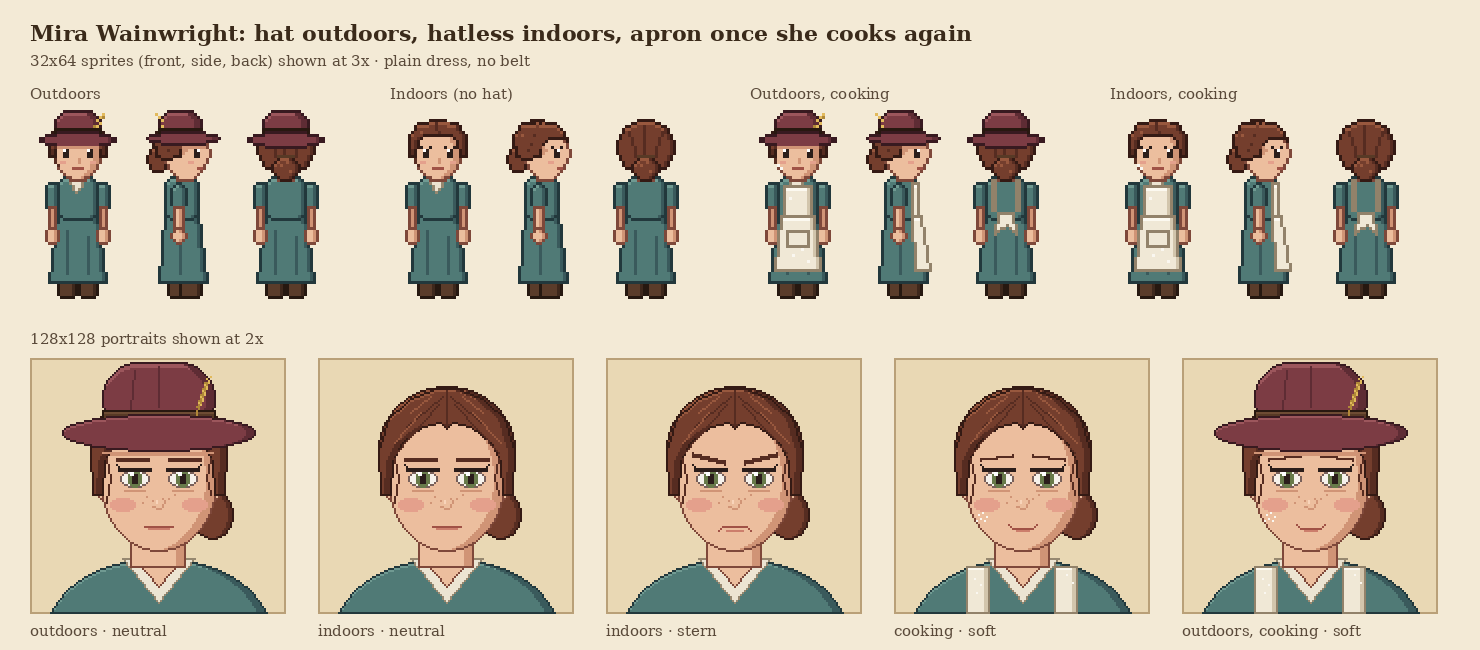
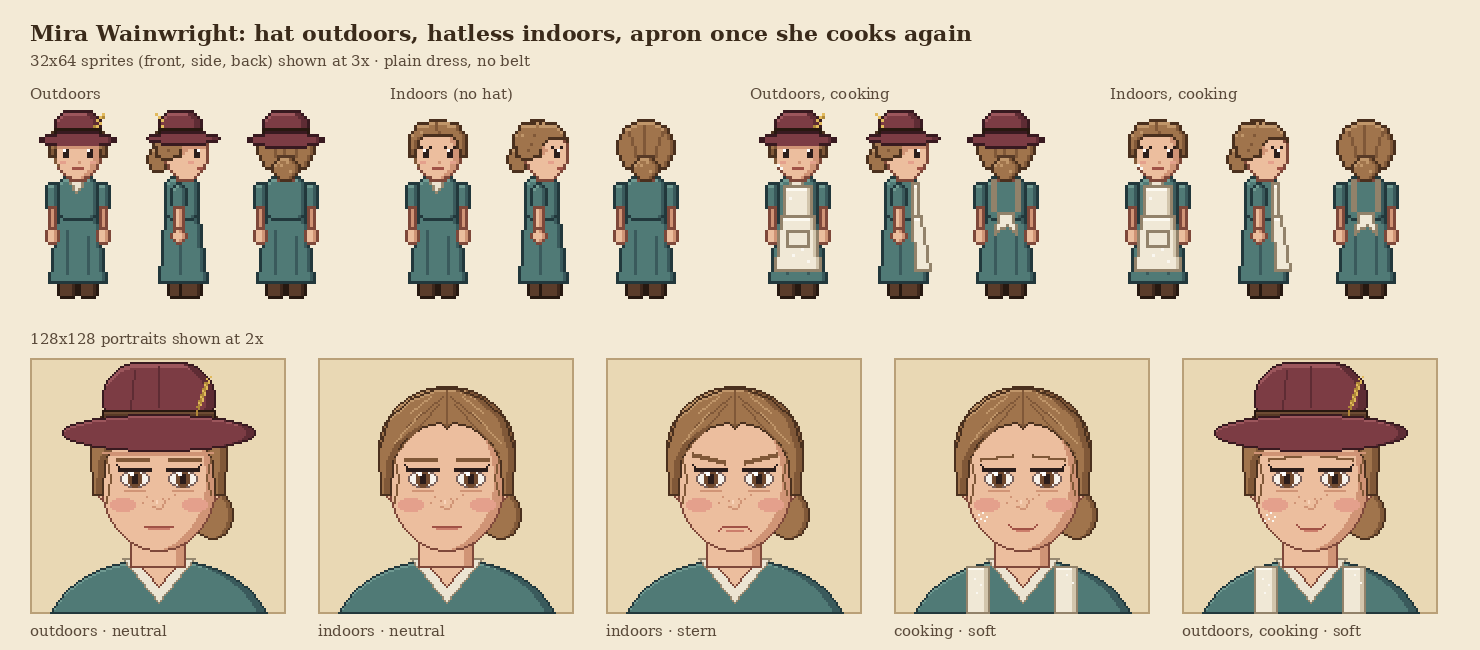
Add Pip concept art; Mira gets light brown hair, brown eyes and a smaller sprite nose
Claude-Session: https://claude.ai/code/session_01NvFAa9nga9ook5zdC6nh3r

diff --git a/tools/concept_art/pip.py b/tools/concept_art/pip.py
@@ -1,0 +1,223 @@
+"""Concept art for Pip Wainwright (7): 32x64 walk sprites and 128x128 portraits.
+
+Light brown hair from Mira, green eyes from Edric. Rust tunic, suspenders, knee breeches.
+Run: python3 tools/concept_art/pip.py   (writes to docs/concept-art/pip/)
+"""
+import sys
+from pathlib import Path
+from PIL import Image, ImageDraw, ImageFont
+
+sys.path.insert(0, str(Path(__file__).resolve().parent))
+from mira_hd import part, put, SKIN, HAIR, BOOTS, INK, MOUTH, BLUSH, BAND, LINEN, sprite_front as mira_front  # noqa: E402
+
+OUT = Path(__file__).resolve().parents[2] / "docs" / "concept-art" / "pip"
+
+TUNIC = ((96, 40, 28), (150, 70, 48), (184, 96, 64), (212, 130, 92))
+BREECHES = ((48, 34, 24), (78, 56, 40), (104, 76, 54), (130, 100, 72))
+SOCKS = ((120, 112, 100), (178, 170, 156), (206, 198, 184), (226, 220, 208))
+GREEN = (84, 150, 80)
+GREEN_D = (52, 104, 56)
+DIRT = (150, 112, 80)
+MOUTH_D = (112, 48, 46)
+
+
+# ---------------------------------------------------------------- 32x64 sprites
+def sprite_front(step=0, back=False):
+    im = Image.new("RGBA", (32, 64), (0, 0, 0, 0))
+    by = 1 if step else 0
+    lb, rb = step, -step
+    part(im, lambda d: d.rounded_rectangle((10, 57 + lb, 15, 62 + max(lb, 0)), 2, fill=255), BOOTS, light_top=0)
+    part(im, lambda d: d.rounded_rectangle((16, 57 + rb, 21, 62 + max(rb, 0)), 2, fill=255), BOOTS, light_top=0)
+    part(im, lambda d: d.rectangle((11, 50 + by, 14, 57 + lb), fill=255), SOCKS, shade=(0, 0), light_top=0)
+    part(im, lambda d: d.rectangle((17, 50 + by, 20, 57 + rb), fill=255), SOCKS, shade=(0, 0), light_top=0)
+    part(im, lambda d: (d.rectangle((10, 43 + by, 15, 51 + by), fill=255), d.rectangle((16, 43 + by, 21, 51 + by), fill=255),
+                        d.rectangle((10, 43 + by, 21, 47 + by), fill=255)), BREECHES)
+    for side, (x0, x1) in (("l", (5, 8)), ("r", (23, 26))):
+        sw = step if side == "l" else -step
+        part(im, lambda d, x0=x0, x1=x1: d.rounded_rectangle((x0, 33 + by, x1, 41 + by + sw), 2, fill=255), TUNIC)
+        part(im, lambda d, x0=x0, x1=x1, sw=sw: d.ellipse((x0, 40 + by + sw, x1, 44 + by + sw), fill=255), SKIN, light_top=0)
+    part(im, lambda d: d.polygon([(9, 32 + by), (22, 32 + by), (23, 46 + by), (8, 46 + by)], fill=255), TUNIC)
+    if back:
+        dr = ImageDraw.Draw(im)
+        dr.line([(11, 33 + by), (20, 43 + by)], fill=BAND[1] + (255,), width=2)
+        dr.line([(20, 33 + by), (11, 43 + by)], fill=BAND[1] + (255,), width=2)
+    else:
+        part(im, lambda d: d.rectangle((11, 32 + by, 12, 44 + by), fill=255), BAND, shade=(0, 0), light_top=0)
+        part(im, lambda d: d.rectangle((19, 32 + by, 20, 44 + by), fill=255), BAND, shade=(0, 0), light_top=0)
+        part(im, lambda d: d.polygon([(13, 32 + by), (18, 32 + by), (15, 36 + by)], fill=255), LINEN, shade=(0, 0), light_top=0)
+        put(im, [(18, 40 + by), (17, 41 + by)], TUNIC[0])  # a mended tear
+    part(im, lambda d: d.rectangle((13, 29 + by, 18, 33 + by), fill=255), SKIN, shade=(0, 0), light_top=0)
+    if back:
+        part(im, lambda d: (d.ellipse((7, 13 + by, 24, 30 + by), fill=255), d.polygon([(14, 14 + by), (16, 9 + by), (18, 14 + by)], fill=255),
+                            d.polygon([(9, 27 + by), (11, 32 + by), (13, 29 + by), (16, 32 + by), (18, 29 + by), (20, 32 + by), (22, 27 + by)], fill=255)), HAIR)
+        dr = ImageDraw.Draw(im)
+        for a, b in (((11, 16), (10, 26)), ((15, 14), (14, 28)), ((19, 15), (20, 26))):
+            dr.line([(a[0], a[1] + by), (b[0], b[1] + by)], fill=HAIR[1] + (255,))
+        put(im, [(13, 15 + by), (18, 16 + by)], HAIR[3])
+        return im
+    part(im, lambda d: d.ellipse((7, 14 + by, 24, 26 + by), fill=255), HAIR)
+    part(im, lambda d: d.ellipse((6, 21 + by, 9, 27 + by), fill=255), SKIN, shade=(0, 0), light_top=0)    # ears
+    part(im, lambda d: d.ellipse((22, 21 + by, 25, 27 + by), fill=255), SKIN, shade=(0, 0), light_top=0)
+    part(im, lambda d: d.ellipse((8, 15 + by, 23, 32 + by), fill=255), SKIN, shade=(3, 0), light_top=0)
+    # messy hair with a cowlick
+    part(im, lambda d: d.polygon([(7, 24 + by), (7, 18 + by), (10, 14 + by), (14, 13 + by), (15, 9 + by), (17, 13 + by), (21, 14 + by), (24, 18 + by),
+                                  (24, 23 + by), (22, 20 + by), (20, 22 + by), (18, 19 + by), (16, 21 + by), (14, 19 + by), (12, 22 + by), (10, 19 + by), (9, 24 + by)], fill=255),
+         HAIR, shade=(2, 0))
+    put(im, [(11, 16 + by), (13, 15 + by), (19, 16 + by), (15, 11 + by)], HAIR[3])
+    y = 23 + by
+    for ex in (11, 19):  # big green eyes
+        put(im, [(ex, y), (ex + 1, y)], INK)
+        put(im, [(ex, y + 1), (ex, y + 2), (ex + 1, y + 2)], GREEN_D)
+        put(im, [(ex + 1, y + 1)], (255, 255, 255))
+    put(im, [(10, 27 + by), (11, 27 + by), (20, 27 + by), (21, 27 + by)], BLUSH)
+    put(im, [(13, 26 + by), (18, 26 + by), (14, 27 + by), (17, 27 + by)], SKIN[1])        # freckles
+    put(im, [(14, 29 + by), (17, 29 + by)], MOUTH); put(im, [(15, 30 + by), (16, 30 + by)], MOUTH)  # grin
+    return im
+
+
+def sprite_side(step=0):
+    """Facing right."""
+    im = Image.new("RGBA", (32, 64), (0, 0, 0, 0))
+    by = 1 if step else 0
+    fx = {0: (0, 0), 1: (-3, 3), -1: (1, -1)}[step]
+    part(im, lambda d: d.rounded_rectangle((11 + fx[0], 57, 17 + fx[0], 62), 2, fill=255), BOOTS, light_top=0)
+    part(im, lambda d: d.rounded_rectangle((15 + fx[1], 57, 22 + fx[1], 62), 2, fill=255), BOOTS, light_top=0)
+    part(im, lambda d: d.rectangle((12 + fx[0], 50 + by, 15 + fx[0], 57), fill=255), SOCKS, shade=(0, 0), light_top=0)
+    part(im, lambda d: d.rectangle((16 + fx[1], 50 + by, 19 + fx[1], 57), fill=255), SOCKS, shade=(0, 0), light_top=0)
+    part(im, lambda d: d.rectangle((11, 43 + by, 20, 51 + by), fill=255), BREECHES)
+    part(im, lambda d: d.polygon([(10, 32 + by), (21, 32 + by), (22, 46 + by), (9, 46 + by)], fill=255), TUNIC)
+    part(im, lambda d: d.rectangle((18, 32 + by, 19, 44 + by), fill=255), BAND, shade=(0, 0), light_top=0)
+    sw = {0: 0, 1: 2, -1: -2}[step]
+    part(im, lambda d: d.rounded_rectangle((13 + sw // 2, 33 + by, 17 + sw // 2, 41 + by), 2, fill=255), TUNIC)
+    part(im, lambda d: d.ellipse((13 + sw, 40 + by, 17 + sw, 44 + by), fill=255), SKIN, light_top=0)
+    part(im, lambda d: d.rectangle((14, 29 + by, 18, 33 + by), fill=255), SKIN, shade=(0, 0), light_top=0)
+    part(im, lambda d: d.ellipse((7, 13 + by, 22, 29 + by), fill=255), HAIR)
+    part(im, lambda d: (d.ellipse((9, 15 + by, 23, 32 + by), fill=255), d.rectangle((24, 24 + by, 24, 25 + by), fill=255)), SKIN, shade=(0, 0), light_top=0)
+    part(im, lambda d: d.polygon([(7, 26 + by), (6, 18 + by), (9, 14 + by), (13, 13 + by), (13, 9 + by), (16, 13 + by), (21, 14 + by), (24, 18 + by),
+                                  (24, 20 + by), (21, 19 + by), (19, 21 + by), (17, 19 + by), (15, 23 + by), (14, 27 + by), (10, 28 + by)], fill=255), HAIR, shade=(0, 0))
+    put(im, [(15, 23 + by), (15, 24 + by), (16, 24 + by), (15, 25 + by)], SKIN[1])  # ear
+    put(im, [(10, 17 + by), (13, 15 + by), (18, 16 + by)], HAIR[3])
+    put(im, [(20, 23 + by), (21, 23 + by)], INK); put(im, [(20, 24 + by), (20, 25 + by), (21, 25 + by)], GREEN_D); put(im, [(21, 24 + by)], (255, 255, 255))
+    put(im, [(19, 27 + by), (20, 27 + by)], BLUSH); put(im, [(22, 26 + by)], SKIN[1])
+    put(im, [(21, 29 + by), (22, 29 + by)], MOUTH)
+    return im
+
+
+# ---------------------------------------------------------------- 128x128 portrait
+def portrait(expr):
+    im = Image.new("RGBA", (128, 128), (0, 0, 0, 0))
+    part(im, lambda d: d.ellipse((14, 102, 114, 172), fill=255), TUNIC, shade=(5, 0))
+    for x0 in (36, 84):
+        part(im, lambda d, x0=x0: d.rectangle((x0, 106, x0 + 8, 127), fill=255), BAND, shade=(0, 0), light_top=0)
+    part(im, lambda d: d.polygon([(54, 102), (74, 102), (64, 114)], fill=255), LINEN, shade=(0, 0), light_top=0)
+    part(im, lambda d: d.rectangle((52, 84, 76, 106), fill=255), SKIN, shade=(5, 0), light_top=0)
+    put(im, [(x, y) for x in range(53, 76) for y in range(88, 93)], SKIN[1])
+    part(im, lambda d: d.ellipse((28, 14, 100, 70), fill=255), HAIR, shade=(4, 0))
+    part(im, lambda d: d.ellipse((25, 54, 39, 76), fill=255), SKIN, shade=(0, 0), light_top=0)   # ears that stick out a bit
+    part(im, lambda d: d.ellipse((89, 54, 103, 76), fill=255), SKIN, shade=(0, 0), light_top=0)
+    put(im, [(30, 62), (31, 64), (31, 66), (97, 62), (96, 64), (96, 66)], SKIN[1])
+    part(im, lambda d: d.ellipse((32, 28, 96, 100), fill=255), SKIN, shade=(6, 0), light_top=0)
+    # messy hair with tufts and a cowlick
+    part(im, lambda d: d.polygon([(30, 62), (28, 44), (32, 30), (40, 21), (50, 16), (56, 6), (62, 15), (70, 4), (74, 14), (84, 17), (94, 26), (100, 40), (100, 60),
+                                  (95, 60), (93, 48), (88, 46), (84, 53), (78, 44), (72, 51), (66, 42), (60, 49), (54, 43), (48, 51), (42, 45), (37, 54), (35, 62)], fill=255),
+         HAIR, shade=(4, 0), light_top=1)
+    d = ImageDraw.Draw(im)
+    for a, b in (((56, 14), (50, 30)), ((70, 12), (68, 30)), ((46, 24), (42, 40)), ((82, 22), (86, 40)), ((62, 22), (60, 40))):
+        d.line([a, b], fill=HAIR[1] + (255,))
+    for a, b in (((52, 18), (46, 28)), ((74, 18), (80, 28)), ((60, 10), (58, 18))):
+        d.line([a, b], fill=HAIR[3] + (255,))
+    # big green eyes, two sparkles each
+    for cx in (50, 78):
+        part(im, lambda d, cx=cx: d.ellipse((cx - 8, 58, cx + 8, 71), fill=255), ((120, 96, 90), (226, 220, 212), (248, 245, 240), (248, 245, 240)), shade=(0, 0), light_top=0)
+        d.ellipse((cx - 5, 58, cx + 5, 71), fill=GREEN + (255,))
+        d.ellipse((cx - 5, 58, cx + 5, 62), fill=GREEN_D + (255,))
+        d.rectangle((cx - 2, 61, cx + 1, 67), fill=INK + (255,))
+        d.rectangle((cx - 3, 60, cx - 1, 62), fill=(255, 255, 255, 255))
+        put(im, [(cx + 2, 67), (cx + 3, 67)], (255, 255, 255))
+        d.line([(cx - 8, 57), (cx + 8, 57)], fill=INK + (255,))
+    bc = HAIR[1] + (255,)
+    if expr == "happy":
+        d.line([(41, 51), (46, 49), (57, 50)], fill=bc, width=2); d.line([(71, 50), (82, 49), (87, 51)], fill=bc, width=2)
+    elif expr == "curious":
+        d.line([(41, 50), (57, 50)], fill=bc, width=2); d.line([(71, 48), (80, 45), (87, 47)], fill=bc, width=2)
+    else:  # worried
+        d.line([(41, 52), (57, 48)], fill=bc, width=2); d.line([(71, 48), (87, 52)], fill=bc, width=2)
+    # button nose, freckles, rosy cheeks, a smudge of dirt
+    put(im, [(66, 77), (67, 78), (63, 79), (64, 80), (65, 80), (66, 79)], SKIN[1]); put(im, [(63, 76)], SKIN[3])
+    d.ellipse((35, 76, 48, 83), fill=BLUSH + (255,)); d.ellipse((80, 76, 93, 83), fill=BLUSH + (255,))
+    put(im, [(55, 74), (58, 76), (61, 73), (70, 74), (73, 76), (68, 72), (44, 74), (84, 74), (52, 77), (76, 77)], SKIN[1])
+    put(im, [(86, 87), (88, 86), (87, 89), (89, 88)], DIRT)
+    if expr == "happy":   # big grin with a missing tooth
+        d.chord((54, 82, 74, 96), 0, 180, fill=MOUTH_D + (255,))
+        d.rectangle((57, 89, 71, 90), fill=(250, 248, 242, 255))
+        put(im, [(64, 89), (65, 89), (64, 90), (65, 90)], MOUTH_D)
+        d.arc((54, 82, 74, 96), 0, 180, fill=MOUTH + (255,))
+        d.line([(54, 89), (74, 89)], fill=MOUTH + (255,))
+    elif expr == "curious":
+        d.ellipse((60, 87, 68, 95), fill=MOUTH_D + (255,)); d.ellipse((60, 87, 68, 95), outline=MOUTH + (255,))
+    else:
+        d.line([(58, 91), (61, 89), (64, 90), (67, 89), (70, 91)], fill=MOUTH + (255,))
+    bg = Image.new("RGBA", (128, 128), (233, 216, 180, 255))
+    ImageDraw.Draw(bg).rectangle((0, 0, 127, 127), outline=(185, 160, 120))
+    bg.alpha_composite(im)
+    return bg
+
+
+ORDER = ["down", "left", "right", "up"]
+EXPRS = ["happy", "curious", "worried"]
+
+
+def main():
+    OUT.mkdir(parents=True, exist_ok=True)
+    fr = {
+        "down": [sprite_front(s) for s in (0, 1, -1)],
+        "up": [sprite_front(s, True) for s in (0, -1, 1)],
+        "right": [sprite_side(s) for s in (0, 1, -1)],
+    }
+    fr["left"] = [im.transpose(Image.FLIP_LEFT_RIGHT) for im in fr["right"]]
+    sheet = Image.new("RGBA", (32 * 3, 64 * 4), (0, 0, 0, 0))
+    for r, name in enumerate(ORDER):
+        for c, im in enumerate(fr[name]):
+            sheet.paste(im, (c * 32, r * 64))
+    sheet.save(OUT / "pip_walk_32x64.png")
+    ports = [portrait(e) for e in EXPRS]
+    ps = Image.new("RGBA", (128 * 3, 128))
+    for i, p in enumerate(ports):
+        ps.paste(p, (i * 128, 0))
+    ps.save(OUT / "pip_portraits_128.png")
+    gif = []
+    for name in ORDER:
+        a, b, c = fr[name]
+        for im in (a, b, a, c):
+            f = Image.new("RGBA", (32, 64), (243, 234, 214, 255))
+            f.alpha_composite(im)
+            gif.append(f.resize((160, 320), Image.NEAREST).convert("P"))
+    gif[0].save(OUT / "pip_walk.gif", save_all=True, append_images=gif[1:], duration=150, loop=0)
+
+    serif_b = ImageFont.truetype("/usr/share/fonts/truetype/dejavu/DejaVuSerif-Bold.ttf", 22)
+    serif = ImageFont.truetype("/usr/share/fonts/truetype/dejavu/DejaVuSerif.ttf", 15)
+    ink, sub = (58, 42, 26), (90, 74, 58)
+    pv = Image.new("RGBA", (1560, 680), (243, 234, 214, 255))
+    d = ImageDraw.Draw(pv)
+    d.text((30, 20), "Pip Wainwright (7): light brown hair from Mira, green eyes from Edric", font=serif_b, fill=ink)
+    d.text((30, 52), "32x64 walk cycle (idle, step, step) in 4 directions · shown at 3x", font=serif, fill=sub)
+    x = 30
+    for name in ORDER:
+        d.text((x, 85), name, font=serif, fill=sub)
+        for c, im in enumerate(fr[name]):
+            pv.alpha_composite(im.resize((96, 192), Image.NEAREST), (x + c * 98, 110))
+        x += 3 * 98 + 20
+    y0 = 330
+    d.text((30, y0), "128x128 portraits · shown at 2x", font=serif, fill=sub)
+    for i, (p, e) in enumerate(zip(ports, EXPRS)):
+        pv.alpha_composite(p.resize((256, 256), Image.NEAREST), (30 + i * 276, y0 + 28))
+        d.text((30 + i * 276, y0 + 292), e, font=serif, fill=sub)
+    mx = 880
+    d.text((mx, y0), "with his mother (same scale)", font=serif, fill=sub)
+    pv.alpha_composite(mira_front(0, False, False, False).resize((128, 256), Image.NEAREST), (mx, y0 + 28))
+    pv.alpha_composite(fr["down"][0].resize((128, 256), Image.NEAREST), (mx + 110, y0 + 28))
+    pv.save(OUT / "pip_preview.png")
+
+
+if __name__ == "__main__":
+    main()

diff --git a/tools/concept_art/mira_hd.py b/tools/concept_art/mira_hd.py
@@ -13,7 +13,7 @@ OUT = Path(__file__).resolve().parents[2] / "docs" / "concept-art" / "mira"
 
 # material ramps: outline, shadow, base, light
 SKIN = ((126, 72, 58), (208, 148, 118), (236, 190, 158), (248, 212, 186))
-HAIR = ((52, 26, 20), (86, 44, 33), (116, 62, 45), (152, 88, 62))
+HAIR = ((74, 48, 30), (128, 88, 56), (160, 116, 76), (192, 150, 106))   # light brown (Pip has it too)
 SCARF = ((108, 72, 22), (172, 124, 44), (208, 158, 66), (232, 194, 108))
 DRESS = ((34, 56, 60), (58, 90, 92), (80, 122, 118), (112, 154, 146))
 APRON = ((146, 130, 106), (210, 197, 172), (240, 232, 214), (252, 249, 240))
@@ -23,7 +23,7 @@ MOUTH = (160, 82, 70)
 LIP = (204, 126, 108)
 BLUSH = (228, 160, 140)
 FLOUR = (250, 247, 240)
-IRIS = (104, 122, 74)
+IRIS = (112, 74, 48)   # brown; Pip's green eyes come from Edric
 HAT = ((56, 26, 32), (94, 44, 52), (124, 60, 68), (156, 86, 92))
 BAND = ((40, 24, 16), (66, 42, 28), (88, 58, 38), (110, 76, 52))
 BELT = BAND
@@ -127,7 +127,7 @@ def sprite_front(step=0, back=False, apron=False, hat=True):
             put(im, [(ex, y), (ex + 1, y), (ex, y + 1), (ex + 1, y + 1), (ex, y + 2), (ex + 1, y + 2)], INK)
             put(im, [(ex, y)], (255, 255, 255))
             put(im, [(ex - 1, y - 1), (ex + 2, y - 1)], INK)  # heavy upper lid
-        put(im, [(16, 16 + by), (16, 17 + by)], SKIN[1])
+        put(im, [(16, 17 + by)], SKIN[1])  # nose: one shadow pixel
         put(im, [(14, 19 + by), (15, 19 + by), (16, 19 + by), (17, 19 + by)], MOUTH)
         put(im, [(10, 17 + by), (11, 17 + by), (20, 17 + by), (21, 17 + by)], BLUSH)
         if apron:
@@ -159,7 +159,7 @@ def sprite_side(step=0, apron=False, hat=True):
     part(im, lambda d: d.ellipse((6, 3 + by, 22, 19 + by), fill=255), HAIR)
     part(im, lambda d: d.ellipse((4, 12 + by, 11, 20 + by), fill=255), HAIR, shade=(0, 0))      # low bun
     put(im, [(10, 13 + by), (10, 14 + by), (10, 15 + by)], BAND[2])                               # ribbon
-    part(im, lambda d: (d.ellipse((10, 5 + by, 24, 23 + by), fill=255), d.rectangle((23, 13 + by, 25, 15 + by), fill=255)), SKIN, shade=(0, 0), light_top=0)
+    part(im, lambda d: (d.ellipse((10, 5 + by, 24, 23 + by), fill=255), d.rectangle((24, 15 + by, 24, 16 + by), fill=255)), SKIN, shade=(0, 0), light_top=0)
     part(im, lambda d: d.polygon([(7, 15 + by), (6, 8 + by), (9, 4 + by), (14, 3 + by), (20, 4 + by), (23, 7 + by), (24, 10 + by), (21, 9 + by),
                                   (18, 9 + by), (16, 11 + by), (15, 15 + by), (12, 16 + by), (9, 16 + by)], fill=255), HAIR, shade=(0, 0))
     put(im, [(16, 12 + by), (16, 13 + by), (17, 13 + by), (16, 14 + by)], SKIN[1])  # ear

diff --git a/docs/ART.md b/docs/ART.md
@@ -43,7 +43,7 @@
 ## 5. Concept sprites
 - **Mira Wainwright:** [preview](concept-art/mira/mira_preview.png) · [walk GIF](concept-art/mira/mira_walk.gif) · Unity-ready sheets: [walk 16×32](concept-art/mira/mira_walk_16x32.png) (rows: down, left, right, up; columns: idle, step, step) and [portraits 64×64](concept-art/mira/mira_portraits_64.png) (neutral, stern, soft).
   Generated by [tools/concept_art/mira.py](../tools/concept_art/mira.py). **Concept quality**: a style and colour reference for an artist, not final art.
-- **Mira, higher resolution (current look):** hair parted in the middle and tied back in a low bun with loose strands, plain teal dress (no belt), felt hat with a wheat sprig **outdoors**, **hatless indoors**, apron **once she decides to cook again**. [Preview](concept-art/mira/mira_hd_preview.png).
+- **Mira, higher resolution (current look):** **light brown** hair parted in the middle and tied back in a low bun with loose strands, **brown eyes**, plain teal dress (no belt), felt hat with a wheat sprig **outdoors**, **hatless indoors**, apron **once she decides to cook again**. [Preview](concept-art/mira/mira_hd_preview.png).
   - Outdoors: [walk GIF](concept-art/mira/mira_hd_outdoor_walk.gif) · [walk 32×64](concept-art/mira/mira_hd_outdoor_walk_32x64.png) · [portraits](concept-art/mira/mira_hd_outdoor_portraits_128.png)
   - Indoors: [walk GIF](concept-art/mira/mira_hd_indoor_walk.gif) · [walk 32×64](concept-art/mira/mira_hd_indoor_walk_32x64.png) · [portraits](concept-art/mira/mira_hd_indoor_portraits_128.png)
   - Outdoors, cooking: [walk 32×64](concept-art/mira/mira_hd_outdoor_apron_walk_32x64.png) · [portraits](concept-art/mira/mira_hd_outdoor_apron_portraits_128.png)
@@ -52,3 +52,4 @@
   - **Rule this sets for all characters:** outfits swap by context (outdoors/indoors) and by story state (e.g. Mira's apron), so each character needs a few sprite-sheet variants, not just one.
 
 **Resolution choice (open):** 16×32 (Stardew scale) vs **32×64** (closer to Graveyard Keeper's detail). 32×64 has 4× the pixels per frame, so every character, animation and tile costs noticeably more to draw. If we go 32×64, tiles become 32×32 and the Pixel Perfect Camera reference resolution doubles (e.g. 960×540).
+- **Pip Wainwright (7):** light brown hair from Mira (messy, with a cowlick), green eyes from Edric, freckles, ears that stick out a little; rust tunic with a mended tear, suspenders, knee breeches, grey socks. [Preview](concept-art/pip/pip_preview.png) · [walk GIF](concept-art/pip/pip_walk.gif) · [walk 32×64](concept-art/pip/pip_walk_32x64.png) · [portraits 128×128](concept-art/pip/pip_portraits_128.png) (happy, curious, worried). Generated by [tools/concept_art/pip.py](../tools/concept_art/pip.py).

diff --git a/docs/GAME_DESIGN.md b/docs/GAME_DESIGN.md
@@ -548,6 +548,8 @@ The **story names** follow the hope (18.7); the **look** keeps the original "pun
 | **Pip Wainwright** | Her son, about 7 | Curious, brave in the wrong moments, unafraid of the strange world. Has more hope than anyone in town. | His **sketchbook** is the quest log (17.2 G). His drawings of his dad quietly change with the town's Hope. |
 | **Edric Wainwright** | Mira's husband, carpenter and **toymaker** | Warm, a dreamer, always whistling. Went on the expedition at the back of the column, carrying supplies. | Missing. Alive in the dungeon. His rescue is the turning point of the game. |
 
+**Looks:** Mira has light brown hair and brown eyes; Edric has green eyes; Pip got his mother's light brown hair and his father's green eyes.
+
 Mira's line is the theme of the game in one sentence: she's *right* that hope gets collected, and the game proves her wrong in the end, because shared hope isn't a debt; it's a gift.
 
 ### 20.2 Their story
